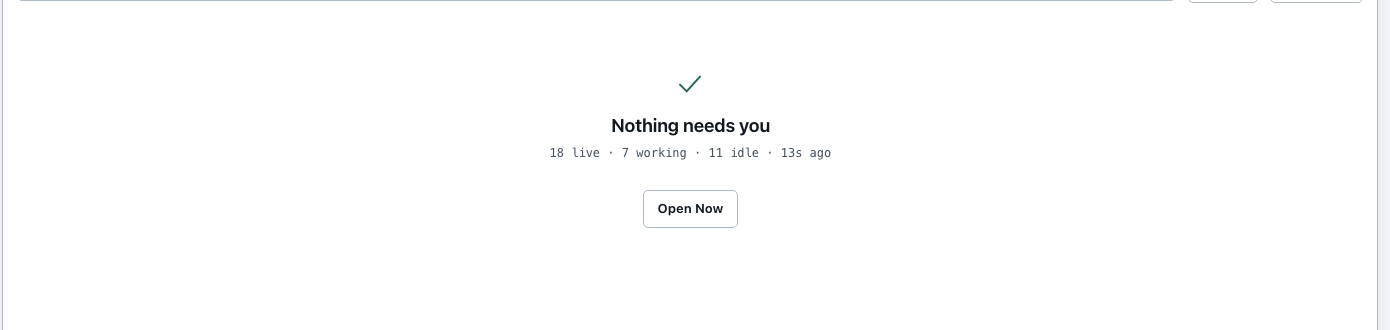
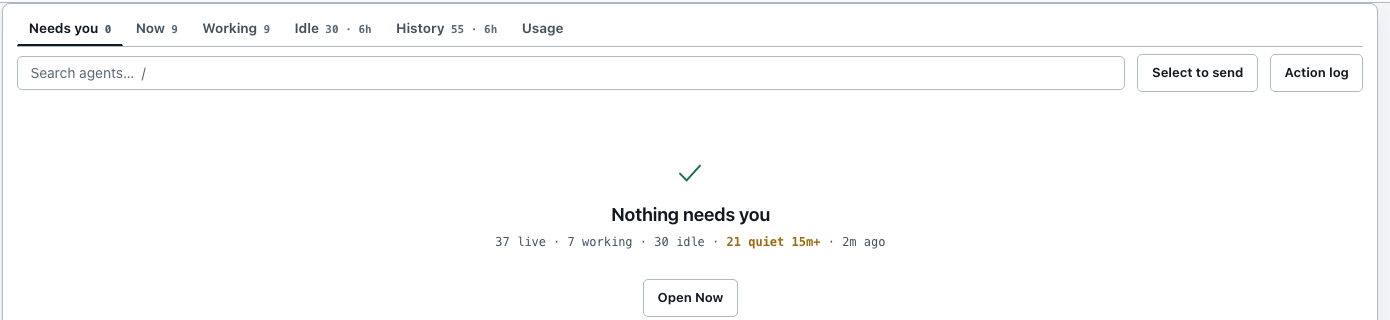
docs(guide): apply the change list, and hold the numbers under audit
Structure and voice unchanged: still opens on a screenshot and four numbered
steps for someone who has never seen the board.

APPLIED — claims that were false and carry no disputed number:

  keyboard: `/` jumps to search and left/right move between tabs, both shipped
    in 8e2eb54 and both missing. The Tab row said "move between controls" while
    the tab strip is now one roving stop — search used to be the eleventh of
    fourteen stops, which is what `/` exists to fix.
  wrapping: row arrows stop at the ends, tab arrows wrap. The old sentence
    claimed no wrapping anywhere; app.js:2885 is `% count`.
  swarm control: the button reads "Select to send", not "Select".

HELD — every figure 58d523c found to be mislabelled rather than miscalculated:

  "N done this hour", Elapsed, BURN, the sparkline's hour and the agent totals
  are all being corrected, so nothing here newly vouches for them. I dropped my
  own planned edit to section 1, which would have added "what it has cost this
  hour" to the calm line — BURN is exactly one of the six, with 5,089,747
  tok/min beside $4.41 implying about 35x below the cheapest real rate.

  Instead the opening rule gains a companion caveat. It names the CLASS of
  error rather than the six instances, so it stays true after they are fixed:
  arithmetically correct, labelled as something they do not measure. Trust the
  verdicts and the lists; treat the aggregate counters as rough.
[…]

diff --git a/ANT-GUIDE.md b/ANT-GUIDE.md
@@ -14,6 +14,14 @@ on a new machine, see [QUICKSTART.md](./QUICKSTART.md).
 > something, it says so instead of showing a plausible number. A blank is
 > usually honest, not broken.
 
+> **And the one caveat.** That rule is about *missing* numbers. A few of the
+> counters on the board are being reworked right now because they had the
+> opposite problem: arithmetically correct, but labelled as something they do
+> not measure — a total that counts the same thing twice, or a span that calls
+> dormant time working time. **Trust the verdicts and the lists; treat the
+> aggregate counters as rough until this note goes away.** The current list of
+> which ones is in `docs/` alongside the audit that found them.
+
 ---
 
 ## The 60-second version
@@ -172,14 +180,22 @@ display, because an `https` remote can carry a token.
 
 | Key | Does |
 |---|---|
+| `/` | Jump to the search box |
 | `↑` / `↓` | Move between rows |
+| `←` / `→` | Move between tabs |
 | `Home` / `End` | Jump to the first / last row |
 | `Enter` | Open the drawer for the highlighted row |
 | `Escape` | Close the drawer |
-| `Tab` | Move between buttons and controls |
+| `Tab` | Move between controls — the whole tab strip counts as one stop |
 
-Arrow keys stop at the top and bottom rather than wrapping, so you cannot
-accidentally teleport to the other end of a long board.
+Row arrows stop at the top and bottom rather than wrapping, so you cannot
+accidentally teleport to the other end of a long board. Tab arrows do wrap —
+there are only six, and going round is what you want.
+
+`Tab` treating the tab strip as a single stop is deliberate. Search used to be
+the eleventh stop of fourteen, with the six view tabs eating six of the ten
+ahead of it, so reaching the board's main filter meant tabbing past everything.
+That is what `/` is for.
 
 </details>
 
@@ -209,11 +225,11 @@ the **Evidence** and **Transcript** sections for raw detail.
 indentation and `↳`. Agents can carry roles like *orchestrator*, *frontend*,
 *backend*, *verifier*, or *tester*.
 
-**Swarm control** *(on screen, as `Select`)*
-: Acting on several agents at once. Click **Select**, tick the agents you want,
-and a bar appears letting you send one instruction to all of them (a
+**Swarm control** *(on screen, as `Select to send`)*
+: Acting on several agents at once. Click **Select to send**, tick the agents you
+want, and a bar appears letting you send one instruction to all of them (a
 **broadcast**). Agents that cannot be safely reached are not selectable, on
-purpose.
+purpose, so on a quiet board you may find nothing to tick.
 
 **Collector**
 : The part that reads each tool's log files — one per provider. When a collector
